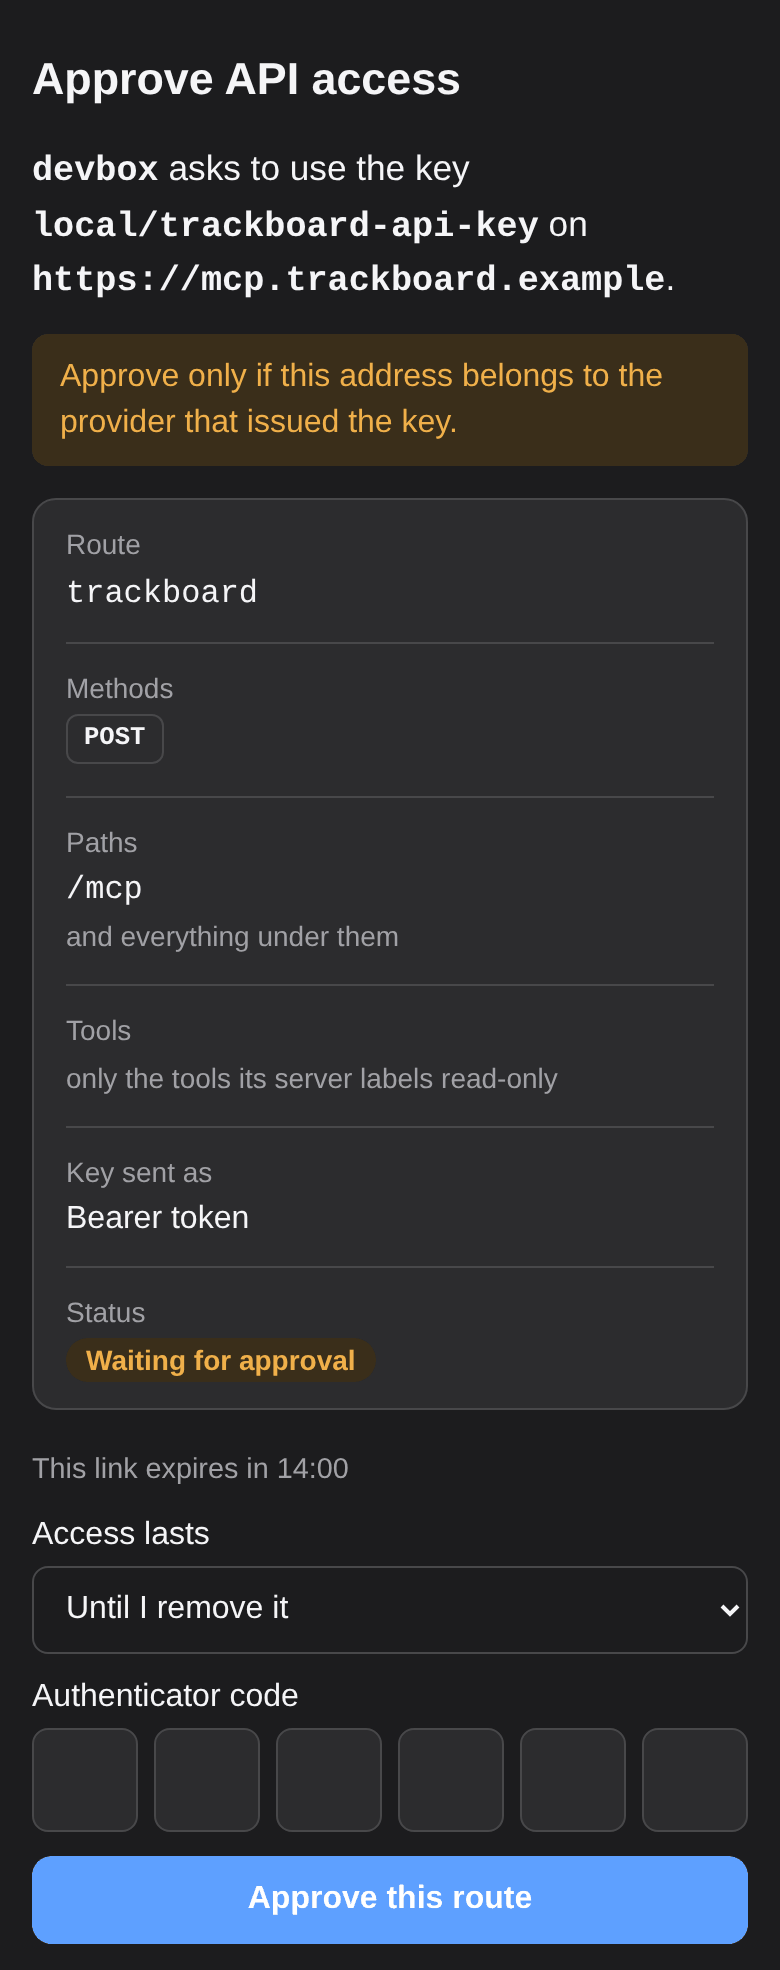
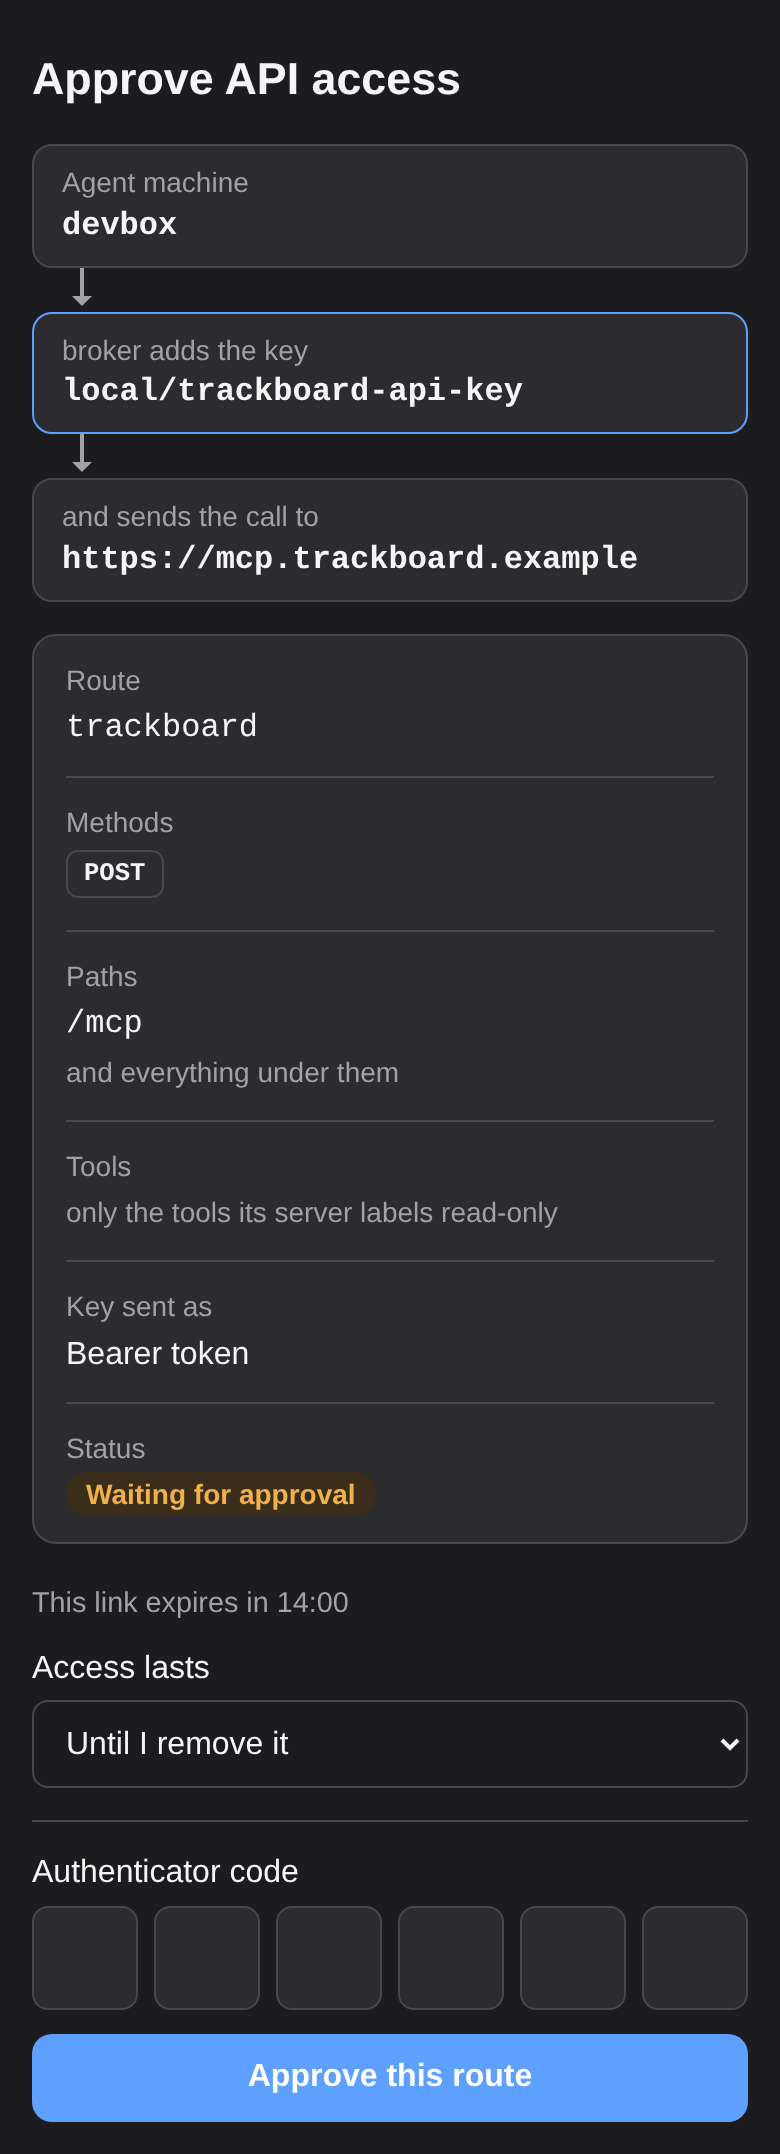
Approval page: the request as a small diagram, no warning box, a line before the code
The opening sentence becomes three boxes: the machine, the key the broker adds and where
the call goes. The 'Approve only if' box is gone; a join keeps 'Nothing else about the
route changes' as a hint in its table. README screenshots of the page retaken.

diff --git a/broker/entry-page.html b/broker/entry-page.html
@@ -138,20 +138,38 @@
     .expiry { flex-direction: row; flex-wrap: wrap; align-items: center; gap: 8px 20px; }
     .code-boxes { max-width: 22rem; }
   }
-  /* Approval and pairing. From 600px the three controls share one width and one left edge. From
-     900px the page widens to two columns: what is asked on the left, and on the right one panel
-     with the warning, the time limit, the code and the button, so the decision is in one place. */
+  /* Route approval opens with a small diagram: the machine that calls, the key the broker adds,
+     and where the call goes. Boxes stack on a phone and sit in a row from 600px. */
+  .flow { display: flex; flex-direction: column; margin: 0 0 16px; }
+  .flow > div { min-width: 0; padding: 8px 14px; background: var(--card); border: 1px solid var(--line);
+                border-radius: 10px; }
+  .flow > .adds { border-color: var(--accent); }
+  .flow .hint, .flow .id { display: block; }
+  .flow .to { position: relative; width: 2px; height: 18px; margin: 0 0 4px 24px; background: var(--muted); }
+  .flow .to::after { content: ""; position: absolute; left: -4px; bottom: -1px; border: 5px solid transparent;
+                     border-bottom: 0; border-top-color: var(--muted); }
+  @media (min-width: 600px) {
+    .flow { flex-direction: row; }
+    .flow .to { flex: 1 0 20px; max-width: 48px; height: 2px; margin: 0 4px 0 0; align-self: center; }
+    .flow .to::after { left: auto; right: -1px; bottom: auto; top: -4px; border: 5px solid transparent;
+                       border-right: 0; border-left-color: var(--muted); }
+  }
+  /* Approval and pairing. A line parts how long access lasts from the code that confirms it. From
+     600px the three controls share one width and one left edge. From 900px the page widens to two
+     columns: what is asked on the left, and on the right one panel with the time limit, the code
+     and the button, so the decision is in one place. */
+  .approve > form select + label { margin-top: 16px; padding-top: 14px; border-top: 1px solid var(--line); }
   @media (min-width: 600px) {
     .approve > form select, .approve > form button.wide { width: 100%; max-width: 22rem; margin-left: 0; }
   }
   @supports selector(:has(*)) {
     @media (min-width: 900px) {
       main:has(> .approve) { max-width: 60rem; }
-      .approve { display: grid; grid-template-columns: minmax(0, 1fr) 23rem; grid-template-rows: auto auto 1fr;
-                 grid-template-areas: "lead lead" "what check" "what form"; column-gap: 32px; align-items: start; }
-      .approve > p:first-child { grid-area: lead; font-size: 1.25rem; margin: 0 0 20px; max-width: 46rem; }
+      .approve { display: grid; grid-template-columns: minmax(0, 1fr) 23rem;
+                 grid-template-areas: "lead lead" "what form"; column-gap: 32px; align-items: start; }
+      .approve > :first-child { grid-area: lead; margin: 0 0 20px; }
+      .approve > p:first-child { font-size: 1.25rem; max-width: 46rem; }
       .approve > .spec, .approve > img { grid-area: what; margin: 0; }
-      .approve > .check { grid-area: check; margin: 0 0 12px; }
       .approve > form { grid-area: form; position: sticky; top: 16px; display: flex; flex-direction: column;
                         padding: 8px 20px 16px; background: var(--card); border: 1px solid var(--line);
                         border-radius: 12px; }

diff --git a/broker/broker_entry.py b/broker/broker_entry.py
@@ -550,18 +550,19 @@ class Handler(BrokerHandler):
                 spec, state, e = data["spec"], data["state"], html.escape
                 show_form = state == "pending"
                 key = e(spec["org"] + "/" + spec["item"])
-                if "join" in spec:
-                    card = (f'<p class="lead"><b class="id">{e(data["node"])}</b> asks to join route '
-                            f'<b class="id">{e(spec["join"])}</b>, which sends the key <b class="id">{key}</b> '
-                            f'to <b class="id">{e(spec["upstream"])}</b>.</p>')
-                    check = ('Approve only if this machine should use that key the way the machines below '
-                             'already do. Nothing else about the route changes.')
-                else:
-                    card = (f'<p class="lead"><b class="id">{e(data["node"])}</b> asks to use the key '
-                            f'<b class="id">{key}</b> on <b class="id">{e(spec["upstream"])}</b>.</p>')
-                    check = 'Approve only if this address belongs to the provider that issued the key.'
-                if show_form:
-                    card += f'<p class="check">{check}</p>'
+                # Who calls, the key the broker adds and where the call goes, as a small diagram.
+                # A screen reader gets it as one sentence.
+                raw_key, joins = spec["org"] + "/" + spec["item"], "join" in spec
+                sentence = (f'{data["node"]} asks to join route {spec["join"]}, which sends the key {raw_key} '
+                            f'to {spec["upstream"]}.' if joins else
+                            f'{data["node"]} asks to use the key {raw_key} on {spec["upstream"]}.')
+                card = (f'<div class="flow" role="img" aria-label="{e(sentence)}">'
+                        f'<div><span class="hint">{"Machine joining the route" if joins else "Agent machine"}</span>'
+                        f'<b class="id">{e(data["node"])}</b></div><span class="to"></span>'
+                        f'<div class="adds"><span class="hint">broker adds the key</span><b class="id">{key}</b></div>'
+                        '<span class="to"></span>'
+                        f'<div><span class="hint">and sends the call to</span><b class="id">{e(spec["upstream"])}</b>'
+                        '</div></div>')
                 pill = {"pending": ("pending", "Waiting for approval"), "active": ("active", "Active")}.get(
                     state, ("", state.capitalize()))
                 rows = [("Route", f'<code>{e(spec.get("join") or spec["name"])}</code>'),
@@ -573,7 +574,8 @@ class Handler(BrokerHandler):
                             else "".join(f'<span class="chip">{e(t)}</span>' for t in spec["tools"])
                             + '<span class="hint">no other tool can be called</span>')]
                           if spec.get("tools") else []),
-                        *([("Already used by", "".join(f'<span class="chip">{e(n)}</span>' for n in spec["nodes"]))]
+                        *([("Already used by", "".join(f'<span class="chip">{e(n)}</span>' for n in spec["nodes"])
+                            + '<br><span class="hint">Nothing else about the route changes</span>')]
                           if "join" in spec else []),
                         ("Key sent as", "Bearer token from your sign-in, renewed by the broker"
                          if spec.get("auth") == "oauth" else
